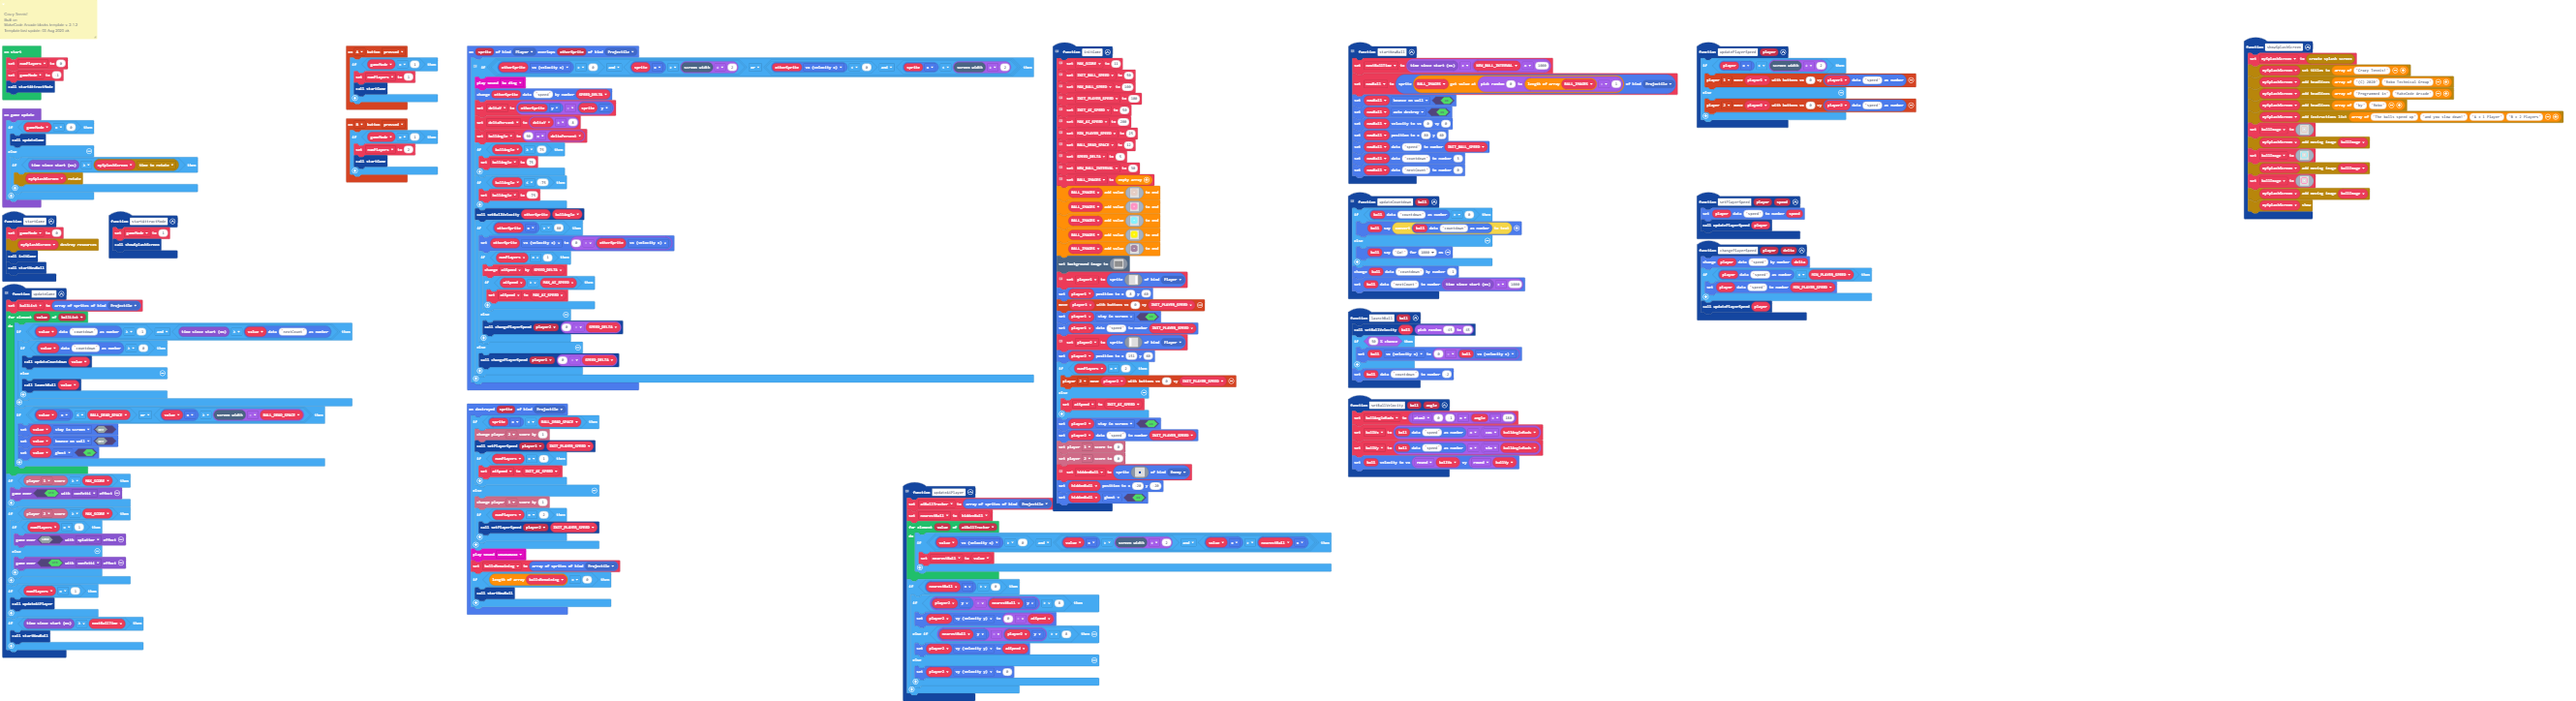
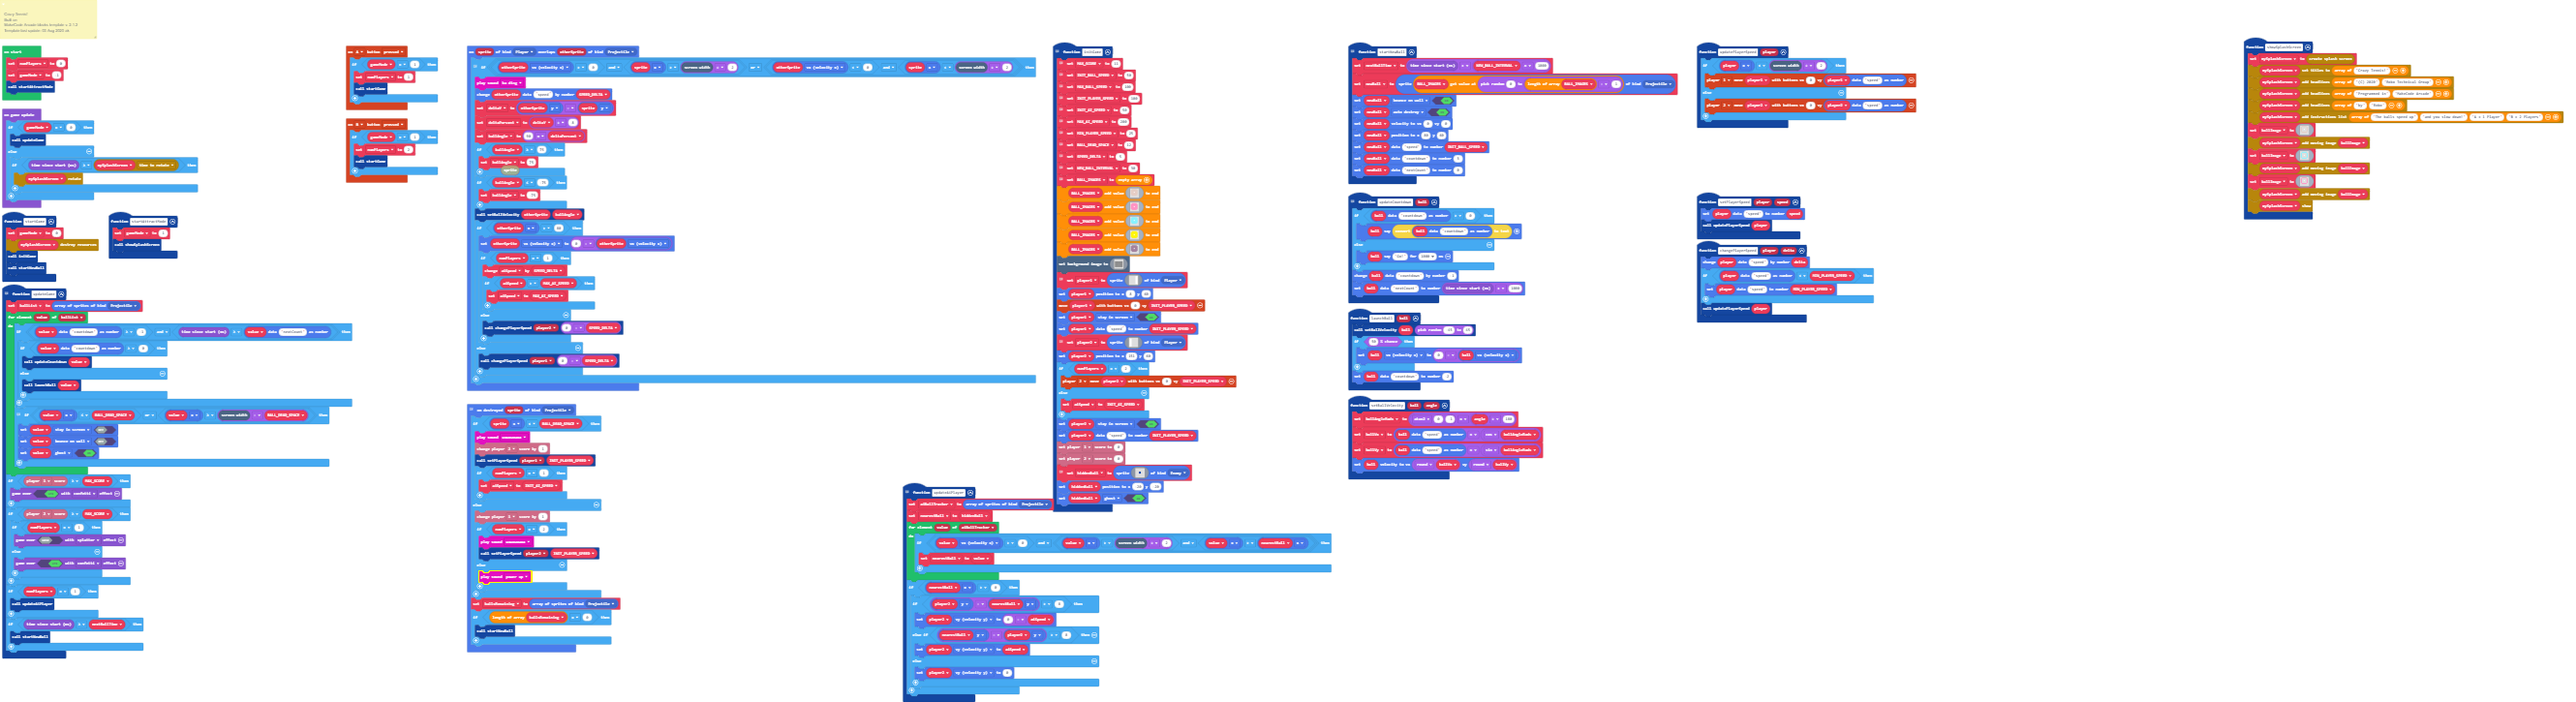
Change sound when ball passes AI.

diff --git a/main.ts b/main.ts
@@ -418,6 +418,7 @@ function updateGame () {
                 launchBall(value)
             }
         }
+        // Once a ball enters a dead space, allow it to leave the screen so that it can be automatically destroyed.
         if (value.x <= BALL_DEAD_SPACE || value.x >= scene.screenWidth() - BALL_DEAD_SPACE) {
             value.setFlag(SpriteFlag.StayInScreen, false)
             value.setFlag(SpriteFlag.BounceOnWall, false)
@@ -441,8 +442,10 @@ function updateGame () {
         startNewBall()
     }
 }
+// When a ball leaves the screen, it scores a point for one of the players.
 sprites.onDestroyed(SpriteKind.Projectile, function (sprite) {
     if (sprite.x < BALL_DEAD_SPACE) {
+        music.wawawawaa.play()
         info.player2.changeScoreBy(1)
         setPlayerSpeed(player1, INIT_PLAYER_SPEED)
         if (numPlayers == 1) {
@@ -451,10 +454,12 @@ sprites.onDestroyed(SpriteKind.Projectile, function (sprite) {
     } else {
         info.player1.changeScoreBy(1)
         if (numPlayers == 2) {
+            music.wawawawaa.play()
             setPlayerSpeed(player2, INIT_PLAYER_SPEED)
+        } else {
+            music.powerUp.play()
         }
     }
-    music.wawawawaa.play()
     ballsRemaining = sprites.allOfKind(SpriteKind.Projectile)
     if (ballsRemaining.length == 0) {
         startNewBall()
